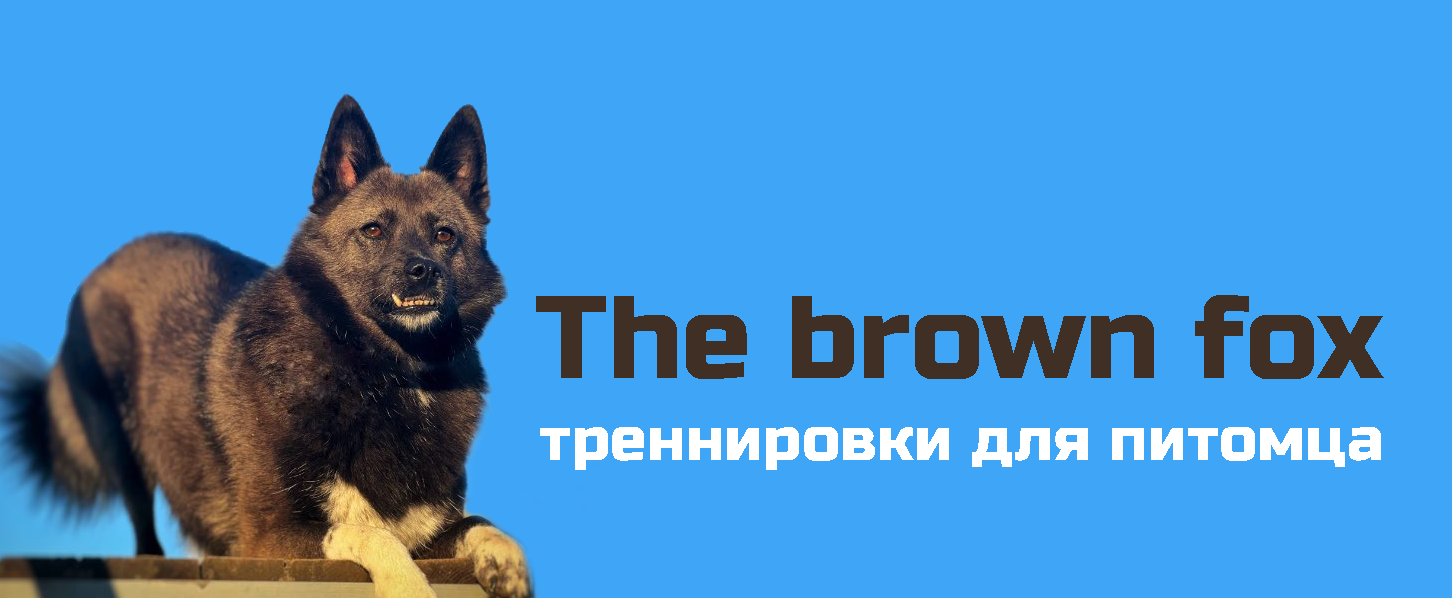
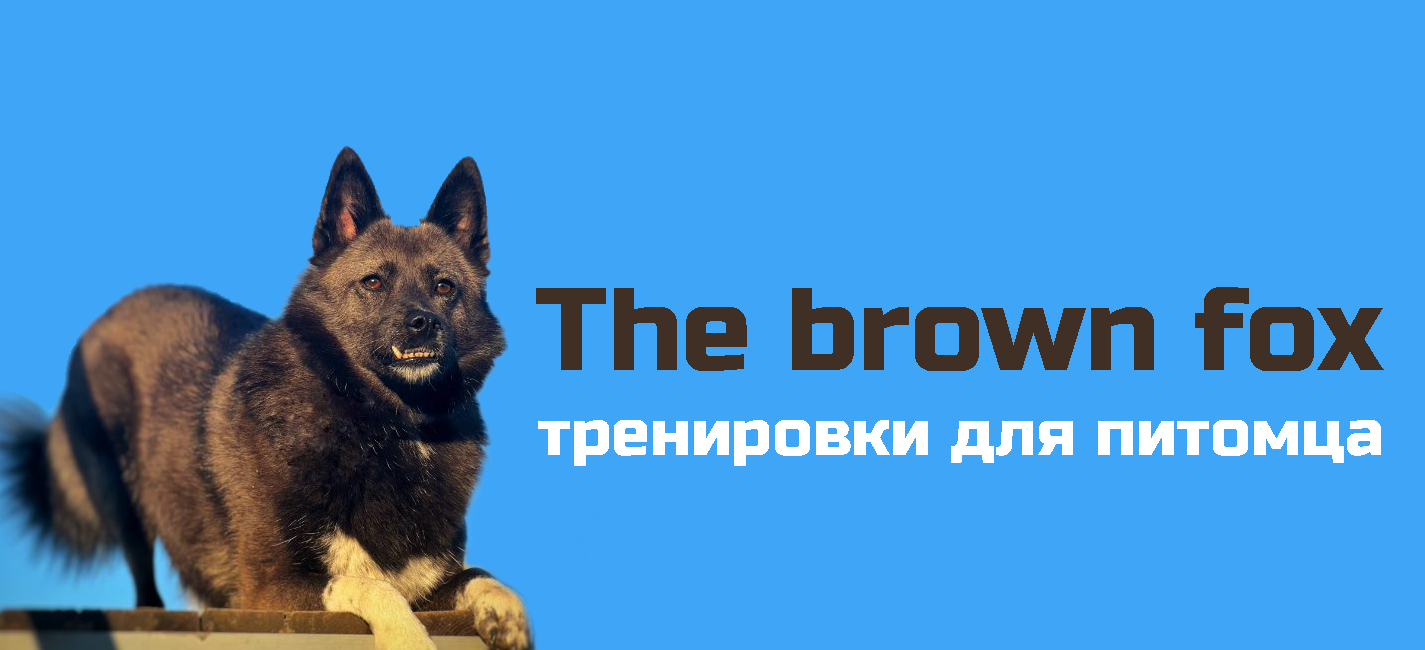
17 commit

Changed region(s): [[0.0, 0.1505, 0.9881, 1.0]]

diff --git a/src/pages/HomePage.tsx b/src/pages/HomePage.tsx
@@ -1,7 +1,7 @@
 import { useNavigate } from 'react-router-dom'
 
-// import main from '../assets/main.png'
-import main2 from '../assets/main2.png'
+import main from '../assets/main.png'
+// import main2 from '../assets/main2.png'
 
 // import StarsIcon from '@mui/icons-material/Stars';
 // import AssistantPhotoIcon from '@mui/icons-material/AssistantPhoto';
@@ -21,7 +21,7 @@ function HomePage() {
     <div className='wrapper'>
       
 
-        <img src={main2} className="mainPhoto" alt="Main" />
+        <img src={main} className="mainPhoto" alt="Main" />
 
 
       {/* <h2 className='titleText'>Выберите уровень подготовки:</h2> */}
